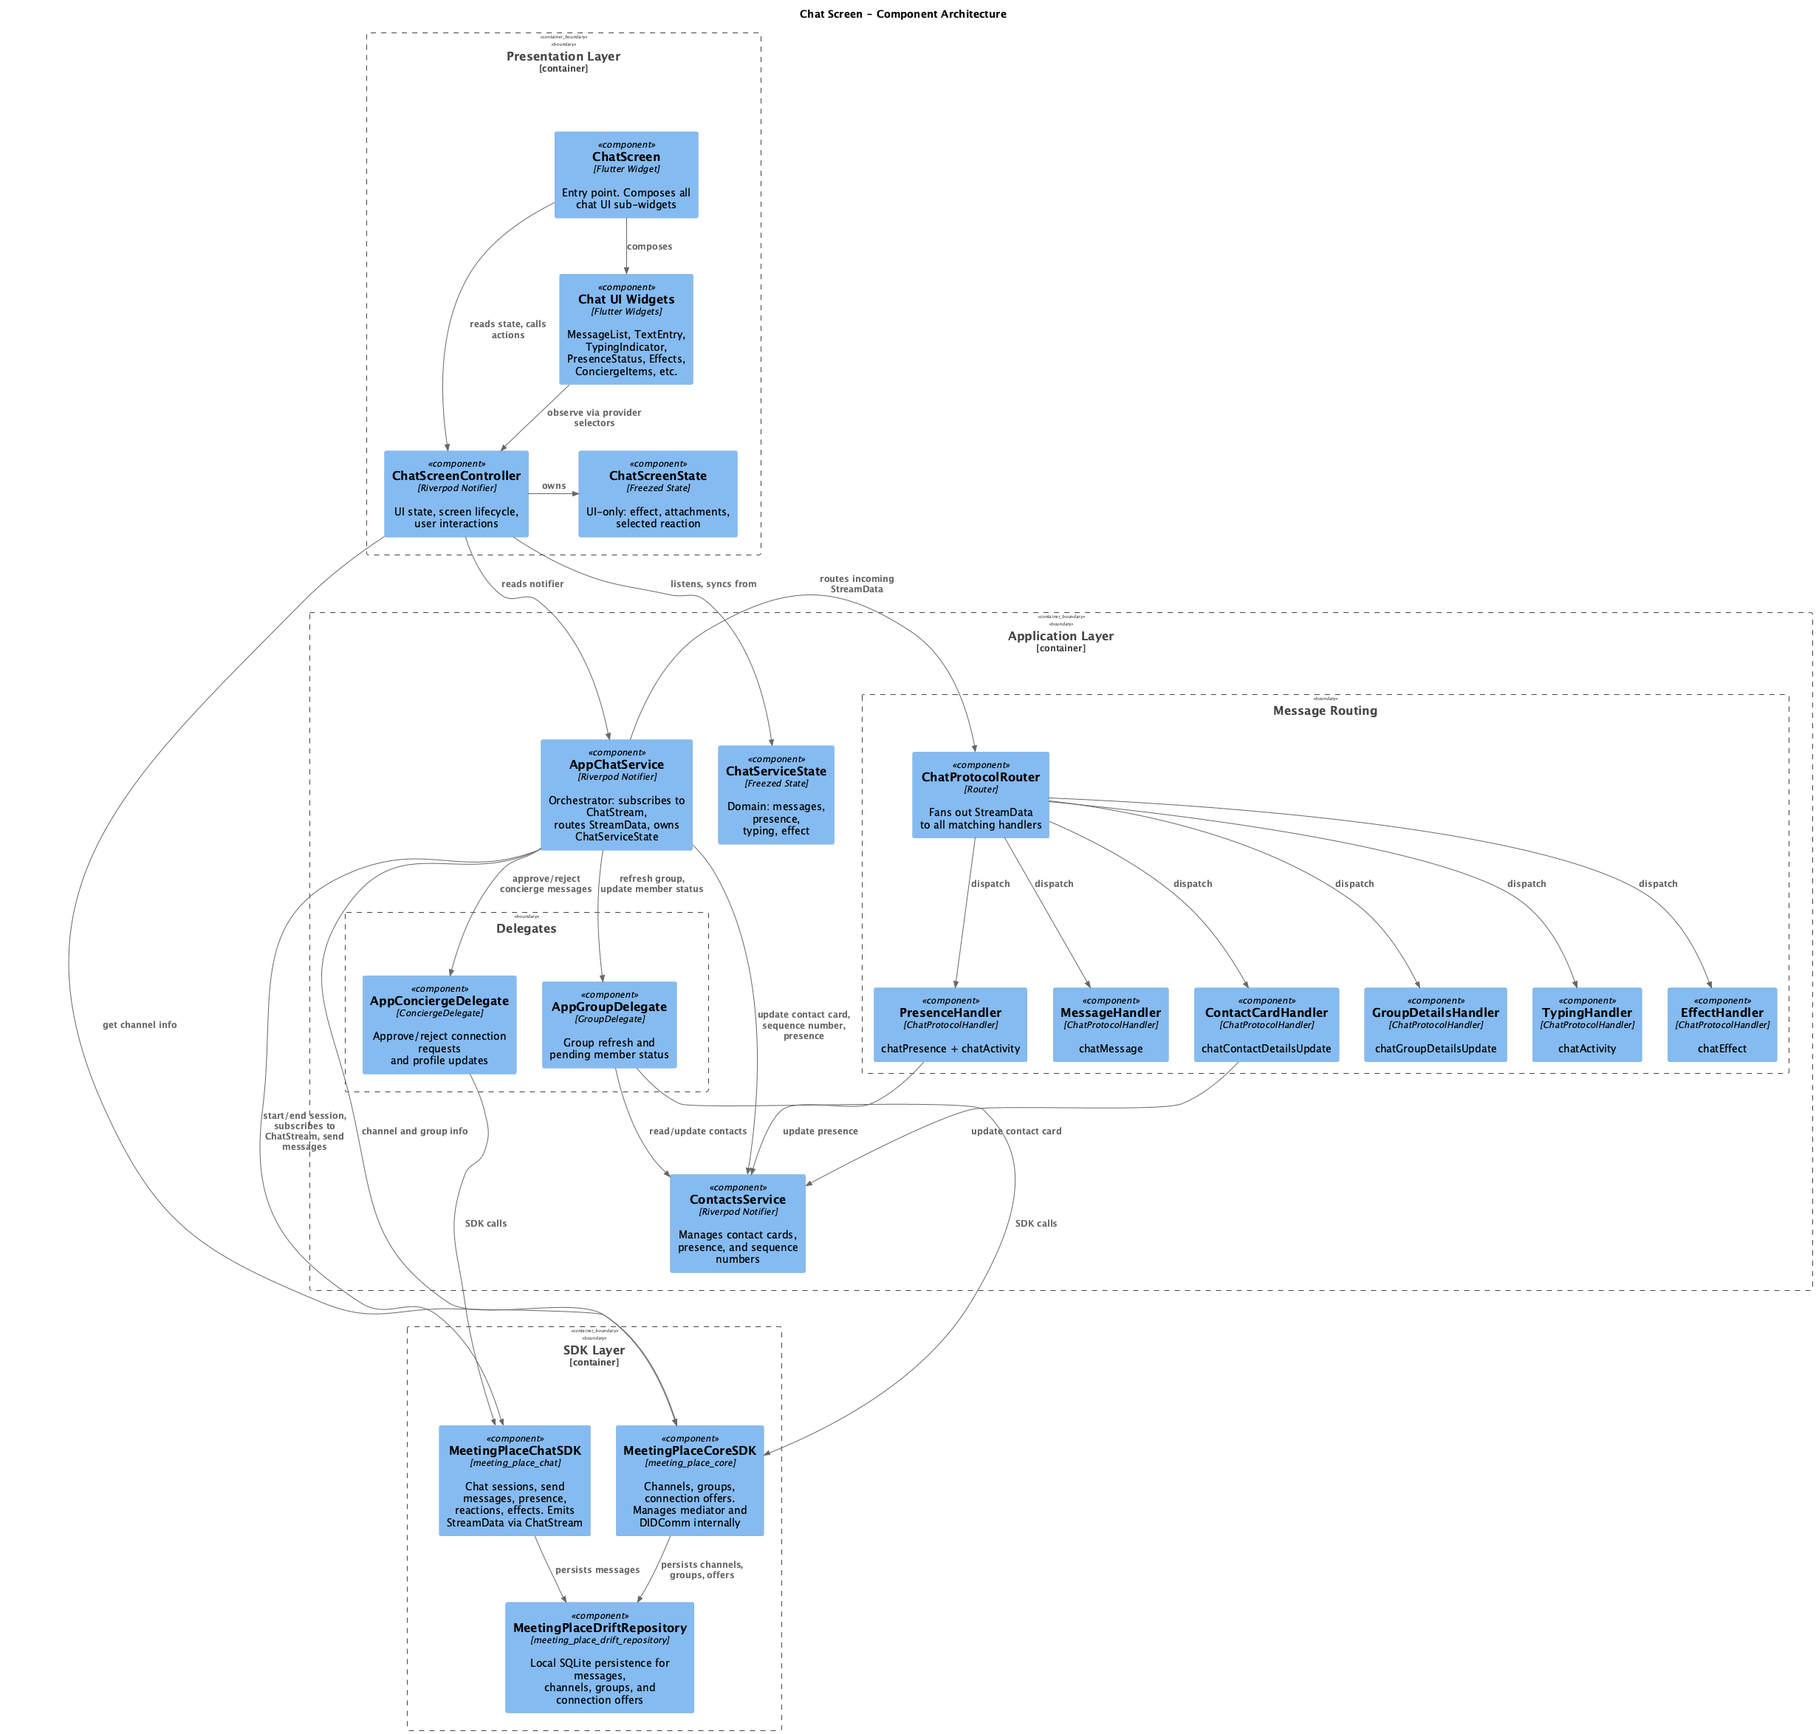
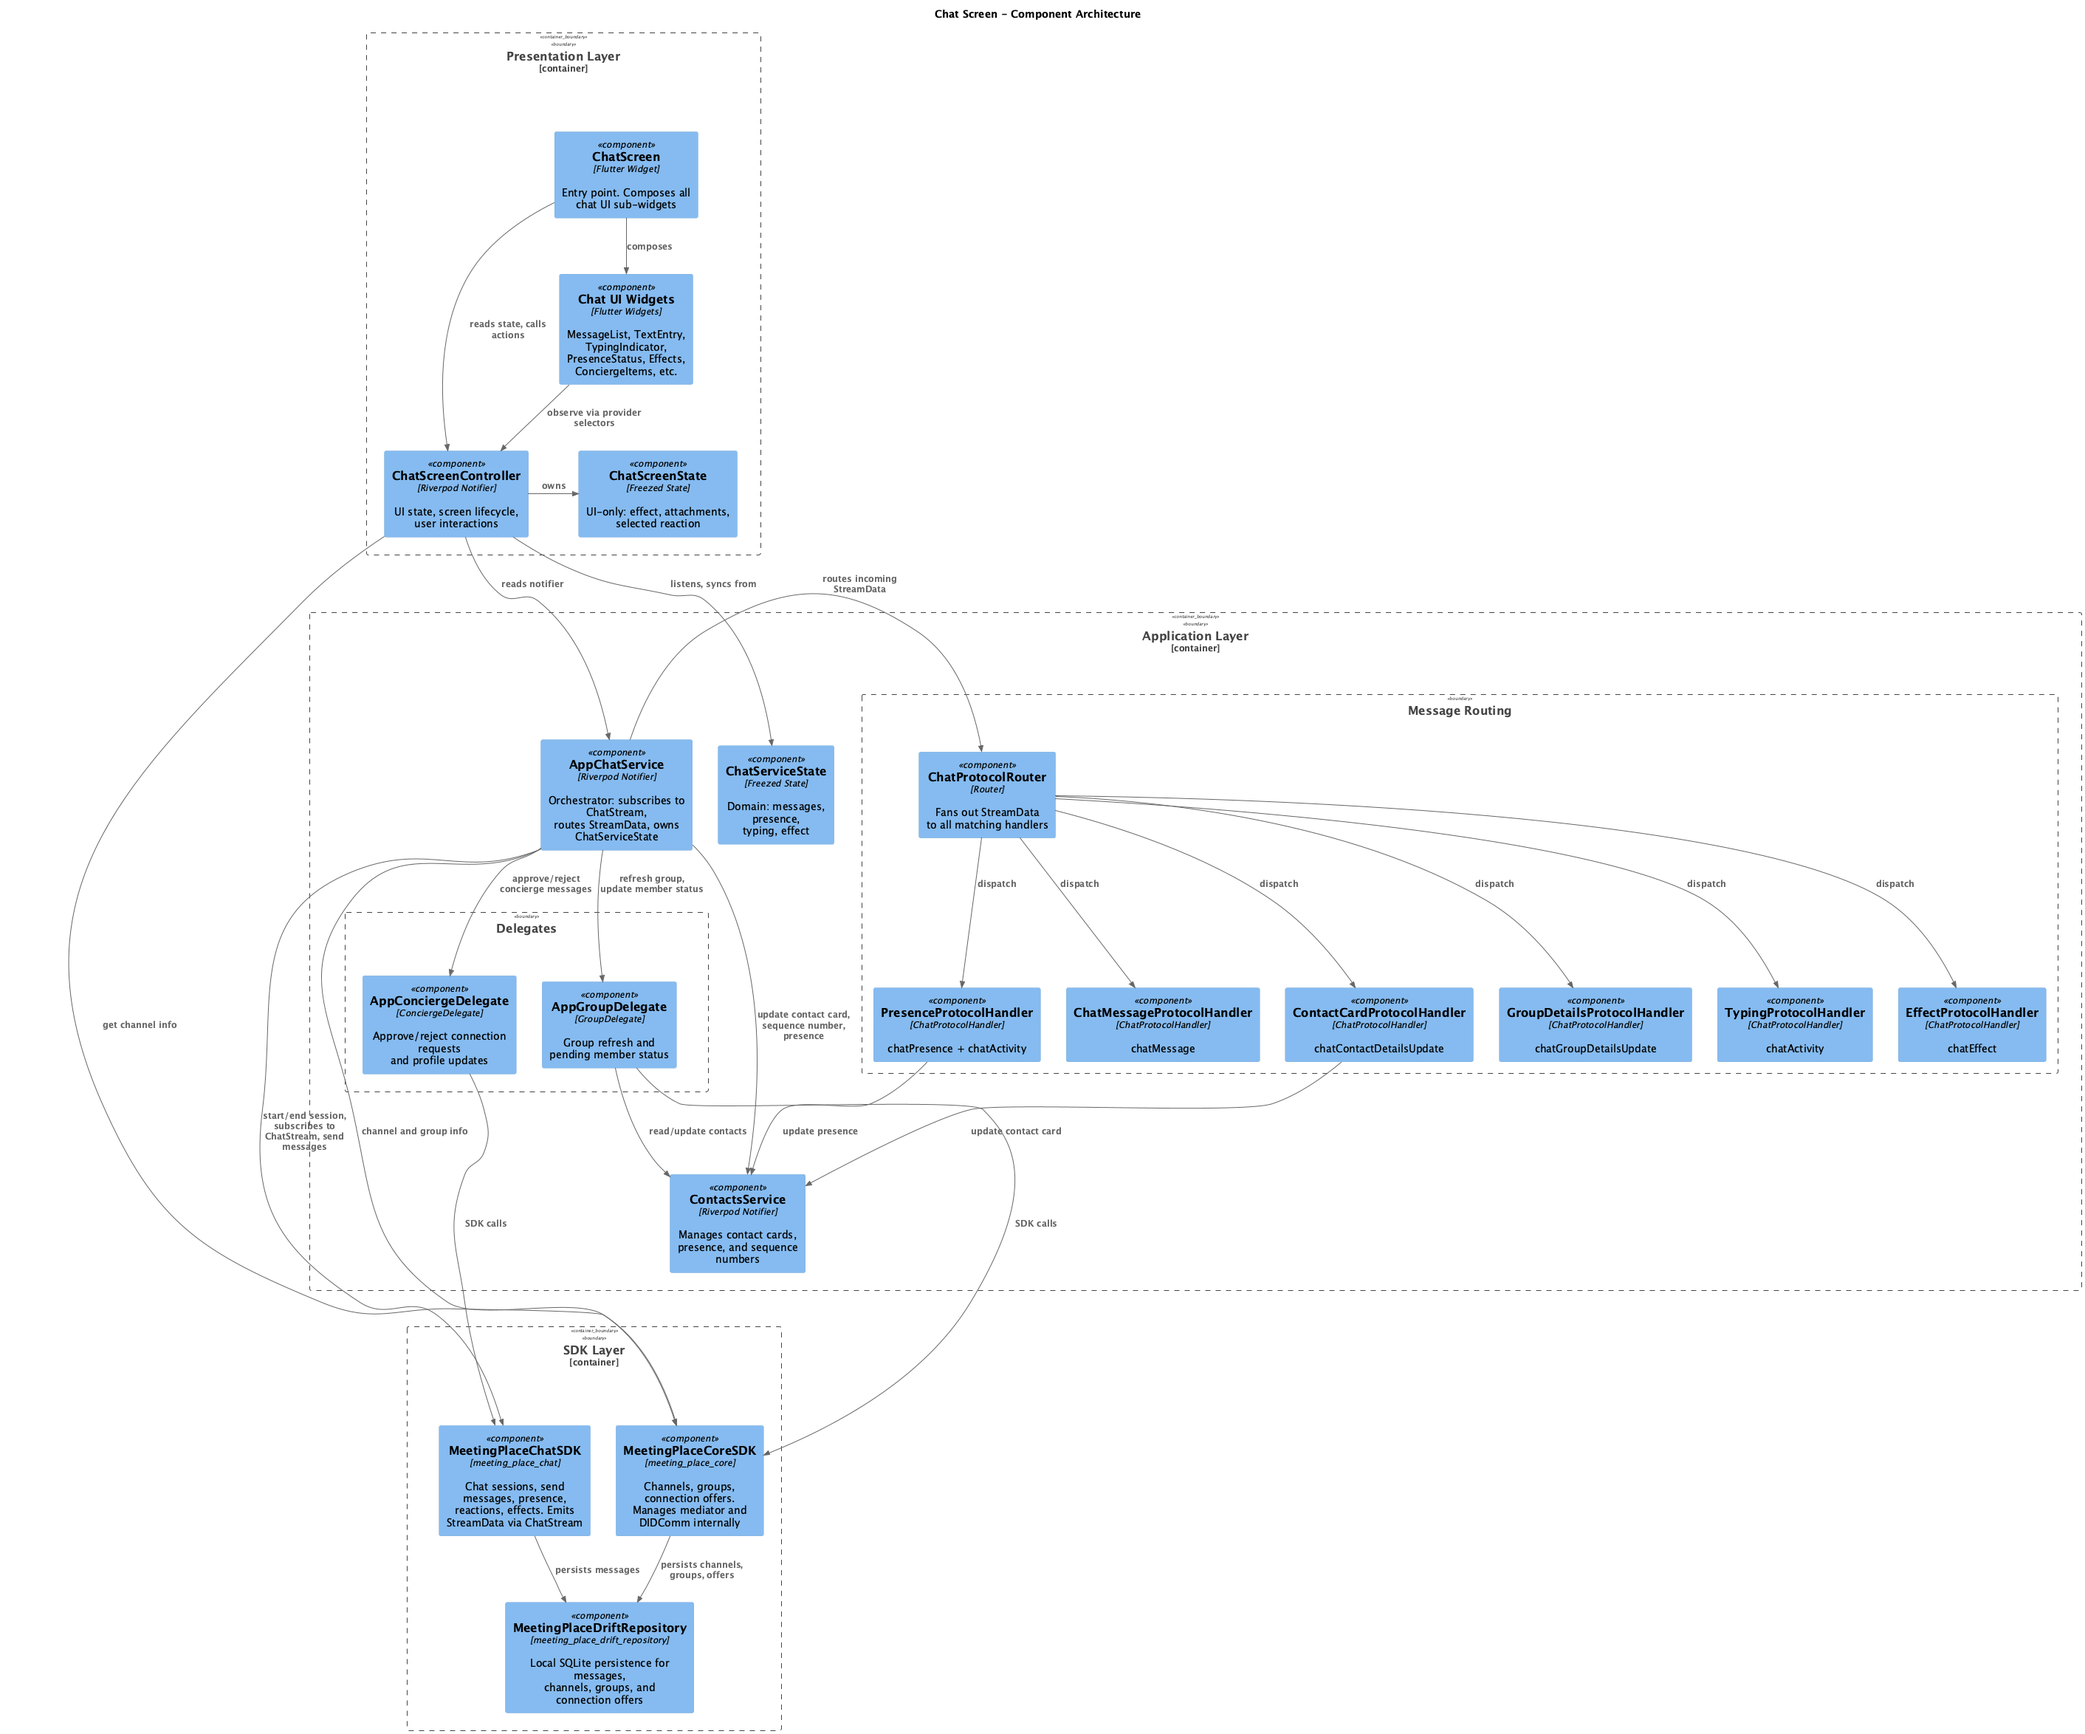
chore: align handler log keys and diagram names with class names

diff --git a/app/lib/application/services/chat_service/handlers/chat_message_protocol_handler.dart b/app/lib/application/services/chat_service/handlers/chat_message_protocol_handler.dart
@@ -14,7 +14,7 @@ class ChatMessageProtocolHandler implements ChatProtocolHandler {
   }) : _onUpdateSequenceNumber = onUpdateSequenceNumber,
        _logger = logger;
 
-  static const _logKey = 'CHATMESSAGEHANDLER';
+  static const _logKey = 'CHATMESSAGEPROTOCOLHANDLER';
 
   final Future<void> Function(String channelDid) _onUpdateSequenceNumber;
   final AppLogger _logger;

diff --git a/app/lib/application/services/chat_service/handlers/group_details_protocol_handler.dart b/app/lib/application/services/chat_service/handlers/group_details_protocol_handler.dart
@@ -13,7 +13,7 @@ class GroupDetailsProtocolHandler implements ChatProtocolHandler {
   }) : _onGroupDetailsUpdated = onGroupDetailsUpdated,
        _logger = logger;
 
-  static const _logKey = 'GROUPDETAILSHANDLER';
+  static const _logKey = 'GROUPDETAILSPROTOCOLHANDLER';
 
   final void Function(StreamData data, String channelDid)
   _onGroupDetailsUpdated;

diff --git a/app/lib/application/services/chat_service/handlers/presence_protocol_handler.dart b/app/lib/application/services/chat_service/handlers/presence_protocol_handler.dart
@@ -22,7 +22,7 @@ class PresenceProtocolHandler implements ChatProtocolHandler {
        _onPresenceUpdated = onPresenceUpdated,
        _logger = logger;
 
-  static const _logKey = 'PRESENCEHANDLER';
+  static const _logKey = 'PRESENCEPROTOCOLHANDLER';
 
   final Ref _ref;
   final void Function(DateTime timestamp) _onPresenceUpdated;

diff --git a/app/lib/application/services/chat_service/handlers/contact_card_protocol_handler.dart b/app/lib/application/services/chat_service/handlers/contact_card_protocol_handler.dart
@@ -27,7 +27,7 @@ class ContactCardProtocolHandler implements ChatProtocolHandler {
        _onOtherPartyCardUpdated = onOtherPartyCardUpdated,
        _logger = logger;
 
-  static const _logKey = 'CONTACTCARDHANDLER';
+  static const _logKey = 'CONTACTCARDPROTOCOLHANDLER';
 
   final Ref _ref;
   final bool Function() _isGroupChat;

diff --git a/app/lib/application/services/chat_service/handlers/typing_protocol_handler.dart b/app/lib/application/services/chat_service/handlers/typing_protocol_handler.dart
@@ -16,7 +16,7 @@ class TypingProtocolHandler implements ChatProtocolHandler {
        _onTypingMember = onTypingMember,
        _logger = logger;
 
-  static const _logKey = 'TYPINGHANDLER';
+  static const _logKey = 'TYPINGPROTOCOLHANDLER';
 
   final int _secondsToShow;
   final void Function(String? senderDid) _onTypingMember;

diff --git a/app/lib/application/services/chat_service/handlers/effect_protocol_handler.dart b/app/lib/application/services/chat_service/handlers/effect_protocol_handler.dart
@@ -13,7 +13,7 @@ class EffectProtocolHandler implements ChatProtocolHandler {
   }) : _onEffect = onEffect,
        _logger = logger;
 
-  static const _logKey = 'EFFECTHANDLER';
+  static const _logKey = 'EFFECTPROTOCOLHANDLER';
 
   final void Function(String? effectName) _onEffect;
   final AppLogger _logger;
